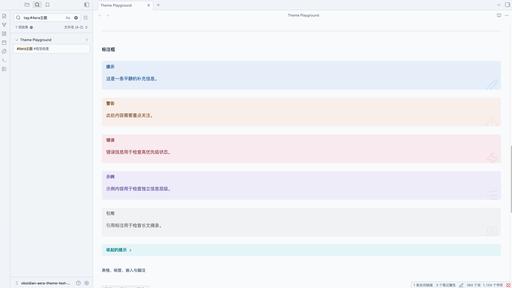
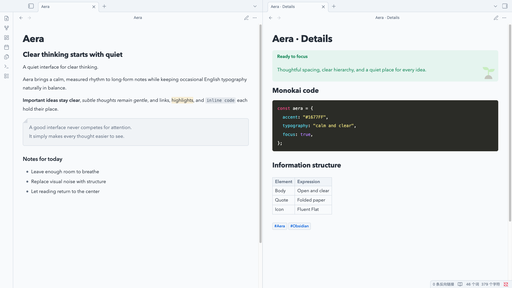
docs: improve theme showcase

diff --git a/README.md b/README.md
@@ -1,15 +1,71 @@
 # Aera
 
-A quiet interface for clear thinking.
+> A quiet interface for clear thinking.
 
-Aera is an Obsidian theme for calm, readable Chinese-first notes with light,
-dark, desktop, and mobile support.
+Aera is a Chinese-first Obsidian theme shaped around calm reading, clear
+hierarchy, and restrained detail. It gives Chinese text a comfortable rhythm
+while keeping occasional English typography, code, and interface elements in
+balance.
 
-![Aera screenshot](screenshot.png)
+![Aera theme preview](preview.png)
+
+## Design
+
+Aera keeps Obsidian familiar. It respects the app's reading width and user font
+size, then refines the surfaces around them with a quiet blue accent, generous
+line height, and a neutral foundation that works in both light and dark mode.
+
+The theme is designed to stay out of the way during long writing sessions while
+still giving structured notes a distinct visual identity.
+
+## Highlights
+
+- Chinese-first typography with balanced English text
+- Calm light and dark palettes built around `#1677FF`
+- Borderless semantic callouts with Fluent Emoji Flat illustrations
+- Paper-like blockquotes with a subtle folded corner
+- Monokai fenced code blocks and understated inline code
+- Refined headings, links, lists, tables, properties, tags, and embeds
+- Desktop and mobile support without overriding user-controlled text sizing
+
+## Installation
+
+### Community themes
+
+1. Open **Settings -> Appearance** in Obsidian.
+2. Select **Manage** under Themes.
+3. Search for **Aera**, then select **Install and use**.
+
+### Manual installation
+
+Download `manifest.json` and `theme.css` from the
+[latest release](https://github.com/def-peter/obsidian-aera-theme/releases/latest),
+place them in `<vault>/.obsidian/themes/Aera/`, and select Aera from Obsidian's
+Appearance settings.
+
+## Updating
+
+Community theme updates appear in **Settings -> Appearance**. Use **Check for
+updates** to install the latest published version. Manual installations can be
+updated by replacing `manifest.json` and `theme.css` with the latest release
+assets.
 
 ## Development
 
-Run `npm install`, `npm run build`, and `npm run check`.
+Install dependencies and compile the theme:
+
+```bash
+npm install
+npm run build
+```
+
+Run the complete test, policy, and contrast suite before committing:
+
+```bash
+npm run check
+```
+
+### Live preview
 
 For live preview, set `AERA_TEST_VAULT` to a dedicated test vault, then run
 `npm run link:vault` and `npm run dev`. The linker refuses to replace unknown
@@ -17,11 +73,16 @@ notes named `Theme Playground.md` or `Embedded Note.md`. Changes to
 `manifest.json` require an Obsidian restart, while
 compiled CSS automatically reloads in the linked vault.
 
+Fluent Emoji assets are pinned and embedded in the compiled stylesheet. Run
+`npm run assets:sync` only when intentionally refreshing those source assets.
+
 ## Release assets
 
-Every release contains `manifest.json` and `theme.css`.
+Every release contains the installable `manifest.json` and `theme.css` files.
+Release tags must match the version recorded in the theme metadata.
 
-## License
+## Credits and license
 
-Aera is available under the [MIT](LICENSE) License. Embedded third-party assets
-are documented in [THIRD_PARTY_NOTICES.md](THIRD_PARTY_NOTICES.md).
+Aera is available under the [MIT](LICENSE) License. The embedded Fluent Emoji
+Flat assets are provided by Microsoft under the MIT License; full attribution
+is available in [THIRD_PARTY_NOTICES.md](THIRD_PARTY_NOTICES.md).